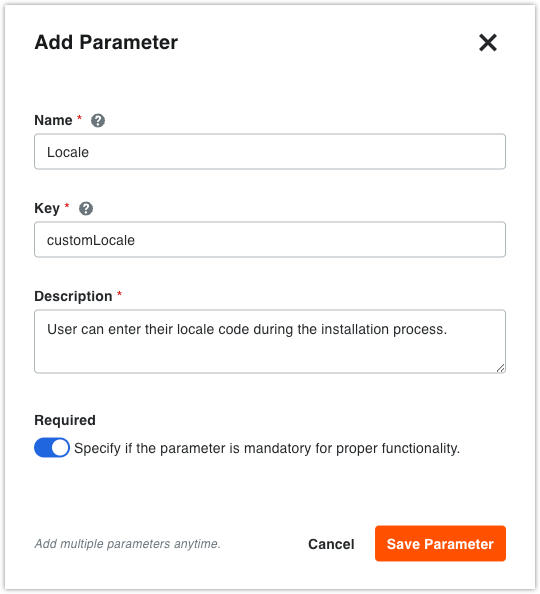
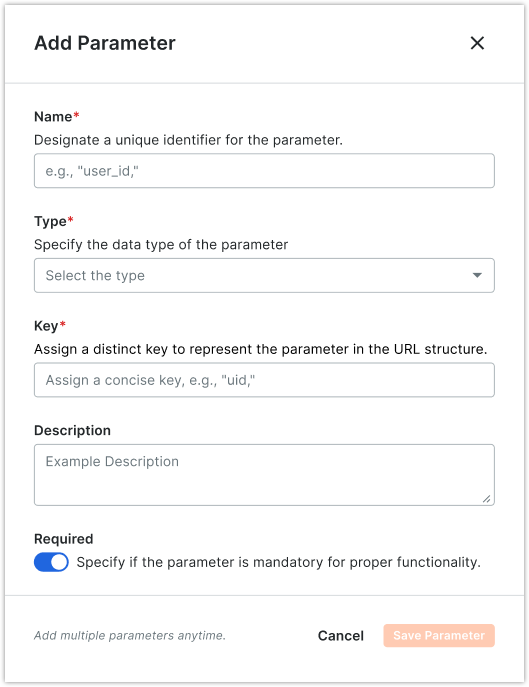
addressing initial feedback

diff --git a/building_applications/building_apps_app_types.md b/building_applications/building_apps_app_types.md
@@ -37,13 +37,15 @@ See [Building Procore Data Connection Applications with DMSA]({{ site.url }}{{ s
 
 ## Embedded Apps
 
-Procore technology partners building Marketplace Apps as well as third-party developers building custom integrations have the capability to develop and deploy fullscreen embedded applications that display directly within the Procore user interface.
+Procore technology partners building Marketplace Apps as well as third-party developers building custom integrations have the capability to develop and deploy embedded applications that display directly within the Procore user interface.
 This embedded functionality benefits the end user by enabling streamlined and more efficient workflows.
 With an embedded App, the user does not need to constantly switch between Procore and another application, resulting in a more unified and improved user experience.
 The behavior and settings for embedded applications are defined in the App manifest.
 URL parameter interpolation is supported, giving developers the ability to design applications that can dynamically set values in the parameters of the URL address based on install configurations and user input.
 
-Applications developed and installed as fullscreen embedded applications occupy the entire window area within the Procore web user interface.
+### Full Screen Apps
+
+Applications developed and installed as full screen embedded applications occupy the entire window area within the Procore web user interface.
 fullscreen embedded applications are launched from the **Apps** menu drop-down.
 Here is an example of the full screen [Procore Integration for Google Sheets(TM)](https://marketplace.procore.com/apps/procore-integration-for-google-sheets) embedded application running in Procore.
 
@@ -51,12 +53,12 @@ Here is an example of the full screen [Procore Integration for Google Sheets(TM)
 
 See [Building Procore Embedded (Fullscreen) Applications]({{ site.url }}{{ site.baseurl }}{% link building_applications/building_embedded_fullscreen_apps.md %}) for additional information.
 
-## Side Panel Apps
+### Side Panel Apps
 
-Developers can also build applications using the side panel experience.
-While fullscreen embedded applications occupy the entire Procore user interface window area, side panel appplications occupy just a portion of the display (400px fixed-width) along the right side of the window.
+Developers can also build applications using the Procore _Side Panel_ experience.
+While full screen embedded applications occupy the entire Procore user interface window area, side panel appplications occupy just a portion of the display (400px fixed-width) along the right side of the window.
 Because side panel applications are installed and configured for specific tools, developers are able to build powerful solutions tailored exactly for a given set of tools or workflows.
-Side panel applications are launched by clicking an icon located on the right-hand edge of the Procore web user interface.
+Side panel applications are launched by clicking an icon located in a dock on the right-hand edge of the Procore web user interface.
 Here is an example of a side panel application - in this case a contextual help embedded application - running within the Procore web user interface.
 
 ![Side Panel Example]({{ site.baseurl }}/assets/guides/side-panel-example.png)

diff --git a/building_applications/building_apps_define_manifest.md b/building_applications/building_apps_define_manifest.md
@@ -20,11 +20,17 @@ The following sections cover the steps for creating a new (v4.1) manifest and un
 
 ## Creating the Initial Sandbox Manifest Version
 
-When you create a new application on the developer portal, the system first generates a sandbox environment for your new application, and then directs you to the Manage App page.
-Using the Configuration Builder on the Manage App page, you can define one or more components and specifiy other settings for your manifest depending on the type of application you are developing.
+When you create a new application on the developer portal, the system first generates a development sandbox environment for your new application, and then directs you to the Manage App page.
+
+>**Using Your Development Sandbox Environment:**
+>The development sandbox is your primary environment for learning about Procore and includes seed project data that can be used for testing purposes.
+>You can install new versions of your application manifest to your sandbox environment at any time using the Saandbox App Version Key.
+>See [Sandbox Environments]({{ site.url }}{{ site.baseurl }}{% link getting_started/development_environments.md %}) for additional information.
+
+Using the Configuration Builder on the Manage App page, you can define one or more components and specify other settings for your manifest depending on the type of application you are developing.
 See [Understanding App Types]({{ site.url }}{{ site.baseurl }}{% link building_applications/building_apps_app_types.md %}) for additional information.
 
-<<screenshot of Configuration Builder here>>
+![Initial Config Builder]({{ site.baseurl }}/assets/guides/form-based-initial-config-builder.png)
 
 Refer the following articles for step-by-step instructions for configuring the initial manifest version for your application:
 
@@ -42,3 +48,5 @@ After you have created the initial sandbox version of your App manifest, you can
 1. Enter a new version number following the semantic versioning scheme.
 1. Make changes to the manifest as needed and click **Create**.
 1. Repeat Steps 1-3 for each additional manifest version you want to create.
+
+{% include install_sandbox_version.md %}

diff --git a/_includes/url_parameter_interpolation.md b/_includes/url_parameter_interpolation.md
@@ -33,7 +33,10 @@ The Procore platform provides the following built-in variables for use as query 
 * `procore.project.id` - ID of the project in which the App has been configured.
 * `procore.project.name` - Name of the project in which the App has been configured.
 
+When included as URL parameters for your embedded (full screen or side panel) application, these values can be used to determine which company and project a user is working in.
+The `procore.project.id` variable is commonly used in scenarios where data for the same Procore project lives in an external system and allows the embedded application to access the externally mapped/synced project.
+
 You can also define your own custom field variables for use as query parameters.
-Values for custom parameters can be set by the user at time of app installation allowing you further personalize your application.
-
-
+Custom field variables can be specified as required _or_ optional.
+Values for custom parameters are set by the user during installation allowing you further personalize your application.
+Custom parameters are extremely flexible and can be used for any number of purposes. Some common uses for custom parameters include entering an ID number for a specific device in a drone/site camera application, specifying a membership or subscription ID for an application, or defining the locale in which an application will be used.

diff --git a/building_applications/building_side_panel_apps.md b/building_applications/building_side_panel_apps.md
@@ -63,7 +63,7 @@ Follow these steps to add a new side panel component.
 
   ![Component Add Param]({{ site.baseurl }}/assets/guides/form-based-component-add-param.png)
 
-* Define the Name, Key, and Description for the custom parameter.
+* Define the Name, Type, Key, and Description for the custom parameter.
 * Specify whether the parameter is required at time of installation.
 
   ![Component Add Param Field]({{ site.baseurl }}/assets/guides/form-based-component-add-param-custom.png)
@@ -76,7 +76,8 @@ You can specify which tools, resources, and actions your application works with 
 As some tools comprise more than one resource (e.g., commitments), this approach is both granular and flexible.
 For example, you might want your app to display only on the list page, but not on the detail page.
 
-* Open the **Views** drop-down and select one or more side panel Views.
+* Use the **Side Panel Views** section to select one or more side panel Views for your application.
+Use the **Search Tools** field to find the tools/views you want to select.
 
   ![Add Views]({{ site.baseurl }}/assets/guides/form-based-component-add-views.png)
 

diff --git a/_includes/setup_instructions.md b/_includes/setup_instructions.md
@@ -1,8 +1,9 @@
 
 ## Define Setup Instructions and Post-Installation Notes
 
-You can define additional setup instructions and post-installation notes to help Procore Administrators to successfully install and set up your application within a Procore project.
-Instructions are displayed to the user at the time of installation, and later via the App Management feature in the Procore Admin tool.
+You can define additional setup instructions and post-installation notes to help Procore users successfully install and set up your application within a Procore project.
+Instructions are displayed to the user once an application is installed, and are accessible later from within the App Management feature in the Procore Admin tool.
+
 
 * Expand the Instructions and Post-Installation Notes section.
 * In the Instructions URL field, enter the web address for your company support site, or web-based installation steps for your application.

diff --git a/_includes/install_sandbox_version.md b/_includes/install_sandbox_version.md
@@ -1,0 +1,13 @@
+## Installing New Manifest Versions to the Development Sandbox
+
+You can install a new version of your application manifest to the development sandbox environment using the following steps.
+
+1. Log in to your development sandbox account. (https://sandbox.procore.com/)
+2. Navigate to the Company level **Admin** tool.
+3. Under 'Company Settings', click **App Management**.
+4. Click **Install App** and choose **Install Custom App**.
+5. Enter the 36-character 'Sandbox App Version Key'.
+6. Click **Install**.
+7. Click **Install** again to confirm the installation.
+
+For additional information, refer to the [Install a Custom App](https://support.procore.com/products/online/user-guide/company-level/admin/tutorials/install-a-custom-app) Procore Support site article.

diff --git a/_includes/create_application.md b/_includes/create_application.md
@@ -1,7 +1,10 @@
 ## Create a New Application
 
-1. Open your browser and navigate to the Developer Portal landing page.
-1. Click **Sign In** to log in to your Developer Portal account.
+1. Open your browser, navigate to the [Developer Portal](https://developers.procore.com/) landing page and click **Sign In**.
+1. Click **Sign In with your Procore Account** and log in using your Procore account credentials.
+
+    ![Dev Portal Login Panel]({{ site.baseurl }}/assets/guides/dev-portal-login-panel.png)
+
 1. Navigate to the My Apps page and click **Create a New App**. The Create New App dialog displays.
 
     ![Create a New App]({{ site.baseurl }}/assets/guides/form-based-create-new-app.png)

diff --git a/building_applications/building_apps_promote_manifest.md b/building_applications/building_apps_promote_manifest.md
@@ -23,8 +23,8 @@ The following diagram shows a simplified view of the manifest versioning model.<
 You can create new working sandbox versions of your manifest, and then promote specific versions to production as needed.
 After you are satisfied with the content in your manifest and you are ready to work with your App in a production environment, complete the following steps to promote the manifest.
 
-1. On the Manage App page, select the 'Configurations' section.
-2. Click **Promote to Production**
+1. On the Manage App page, select the 'Configuration Builder'.
+2. Click **Promote Version**
 
     ![Promote Button]({{ site.baseurl }}/assets/guides/form-based-promote.png)
 
